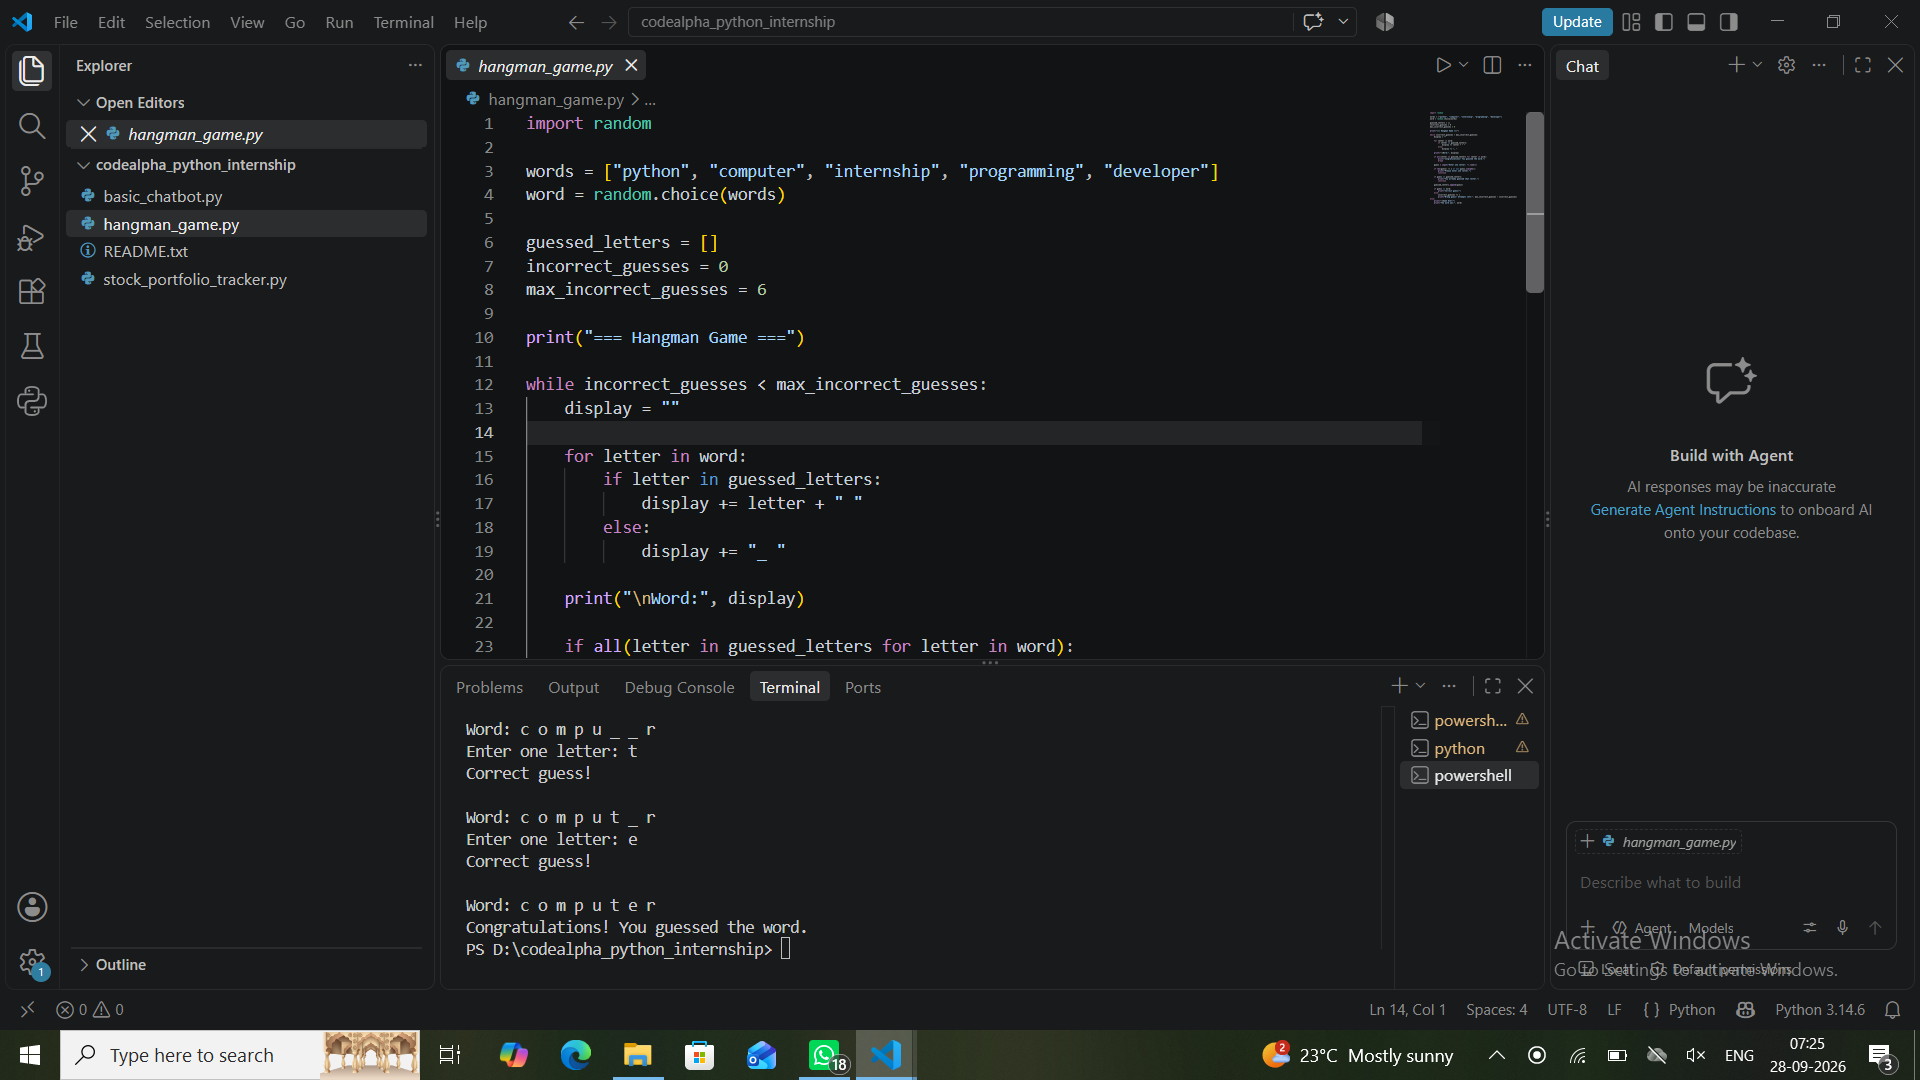
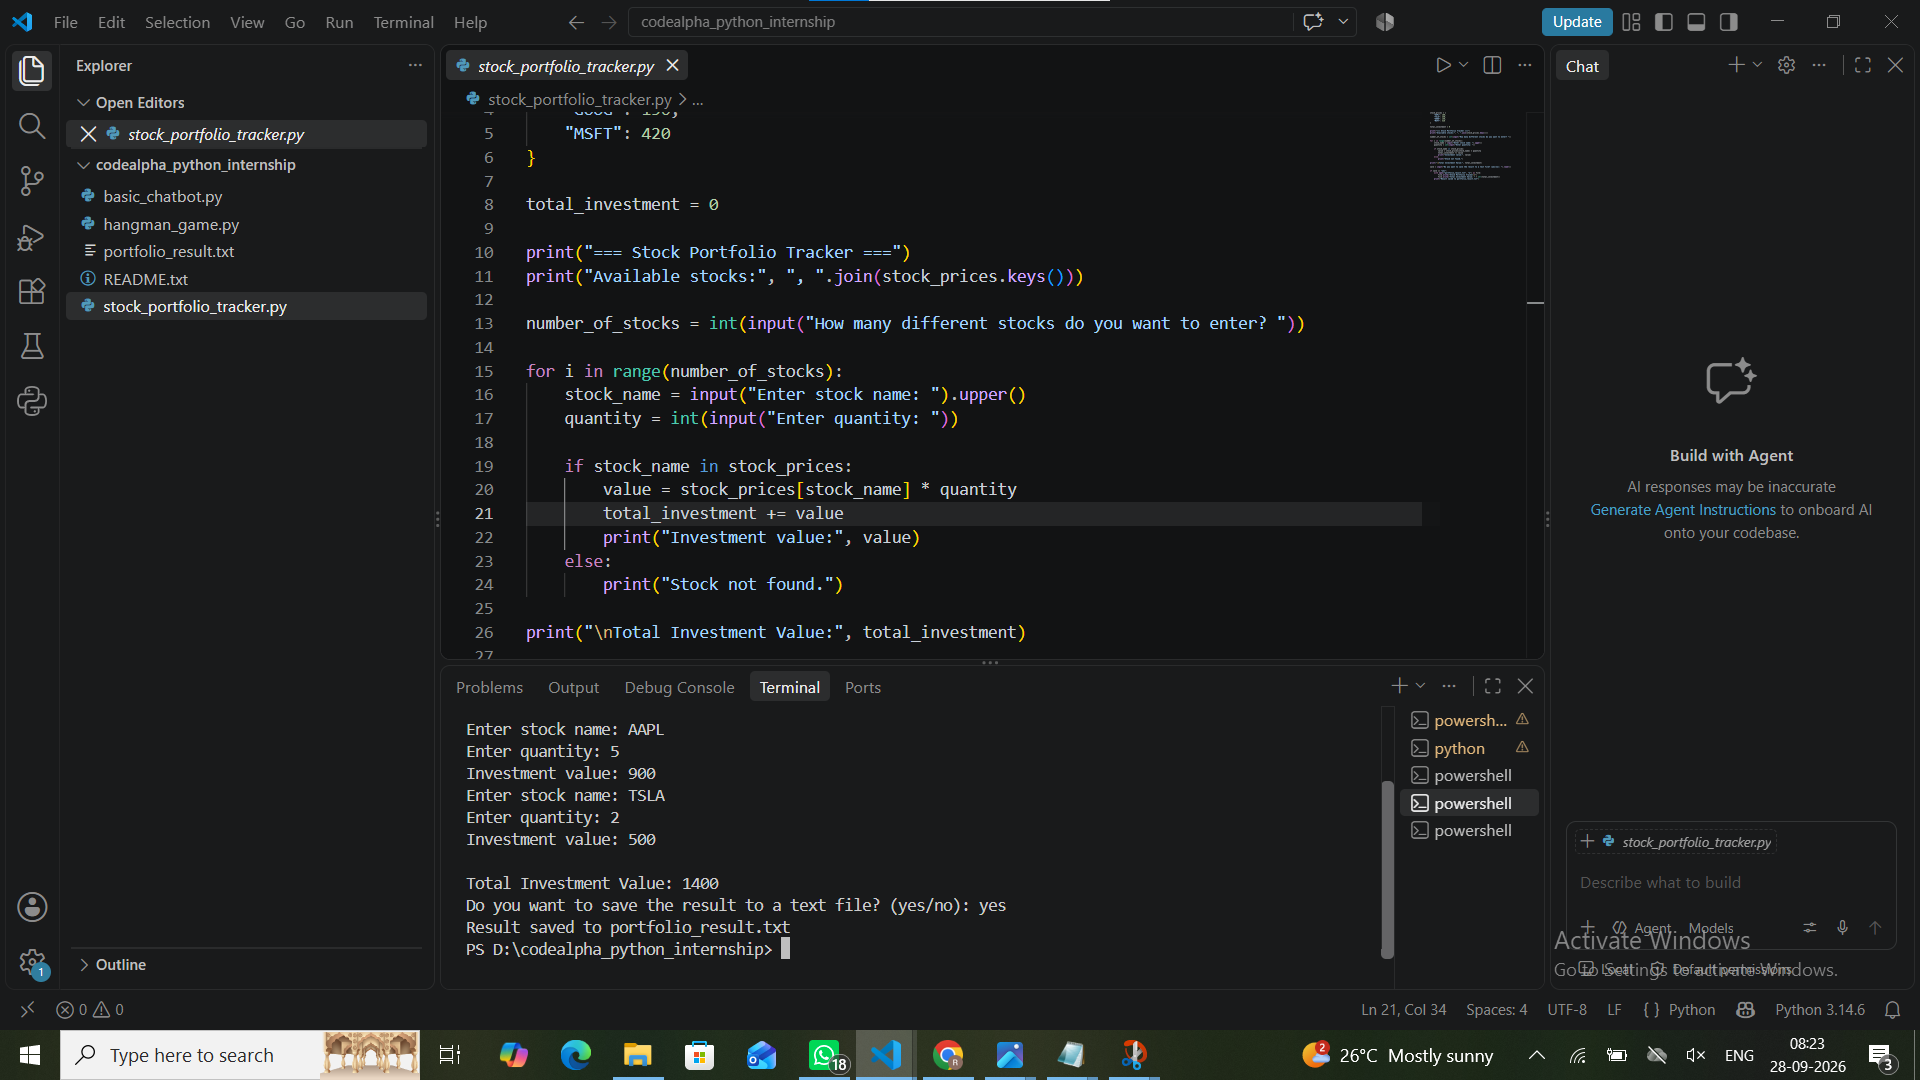
Add files via upload

diff --git a/stock_portfolio_tracker.py b/stock_portfolio_tracker.py
@@ -1,0 +1,34 @@
+stock_prices = {
+    "AAPL": 180,
+    "TSLA": 250,
+    "GOOG": 150,
+    "MSFT": 420
+}
+
+total_investment = 0
+
+print("=== Stock Portfolio Tracker ===")
+print("Available stocks:", ", ".join(stock_prices.keys()))
+
+number_of_stocks = int(input("How many different stocks do you want to enter? "))
+
+for i in range(number_of_stocks):
+    stock_name = input("Enter stock name: ").upper()
+    quantity = int(input("Enter quantity: "))
+
+    if stock_name in stock_prices:
+        value = stock_prices[stock_name] * quantity
+        total_investment += value
+        print("Investment value:", value)
+    else:
+        print("Stock not found.")
+
+print("\nTotal Investment Value:", total_investment)
+
+save = input("Do you want to save the result to a text file? (yes/no): ").lower()
+
+if save == "yes":
+    with open("portfolio_result.txt", "w") as file:
+        file.write("Stock Portfolio Tracker\n")
+        file.write("Total Investment Value: " + str(total_investment))
+    print("Result saved to portfolio_result.txt")
